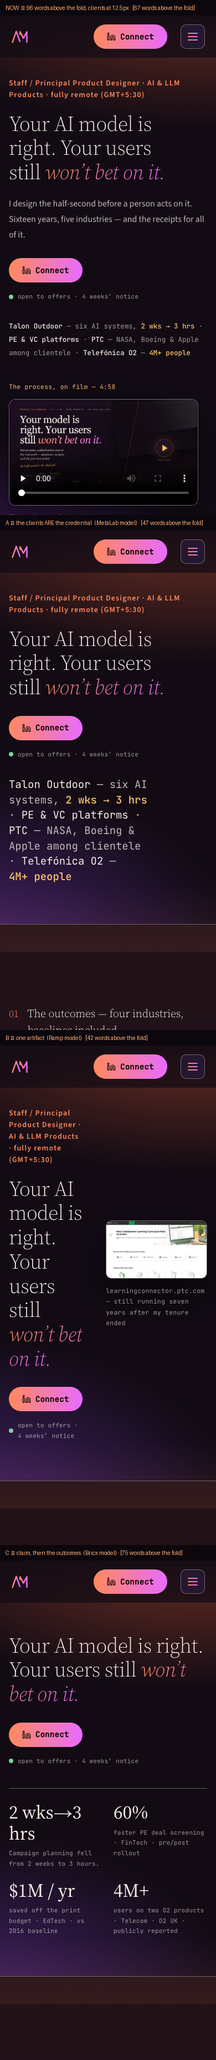
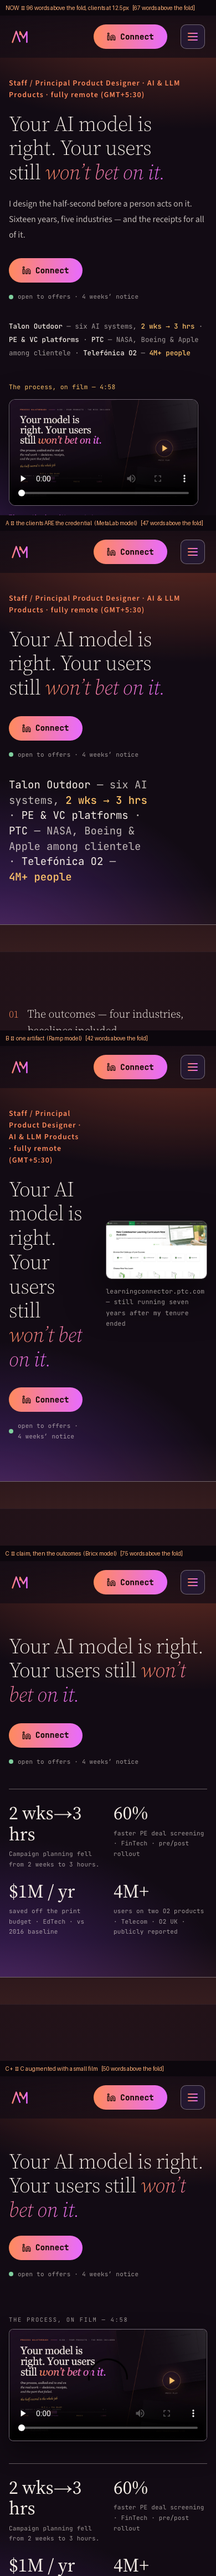
[hero] C+ — direction C augmented with a small film
Arpit: "augment C with a small video".

WHERE IT GOES, and why there. C left ~330px of empty screen to the right of the
call to action — the leftover-space defect his own layout rule names. The film
takes that void rather than being appended below, so the space gets a content
role instead of being padding.

FIRST ATTEMPT TRADED ONE VOID FOR ANOTHER, caught by rendering it. With
align-items:flex-end the film's baseline pulled the CTA ~200px DOWN to meet it,
opening a gap between the H1 and the button. Top-aligned now, so the claim, the
button and the film all hang from one line. Verified geometry rather than
eyeballed:
    H1     209 -> 399
    CTA    423 -> 467   (24px under the H1)
    film   419 -> 620   (312x201, top-aligned with the CTA, -4px)
    strip  660 -> 768
    fold   900          — the whole composition fits, proof strip included

It is the REAL hero video, moved, not a placeholder: the element is cloned from
.hero-widget so it keeps its poster, its controls and its preload=none.

COST: 70 -> 76 words above the fold, all six from the film's own kicker
("THE PROCESS, ON FILM — 4:58"). Still well under the current hero's 96 and
inside the 3-35 band the agency sites occupy.

MOBILE at 390: claim, CTA, status, film full width, then the numbers two
across — two of the four land above the fold, which is the honest trade for a
2-column strip on a phone.

ONE THING WORTH HIS DECISION, not mine: the film's poster frame shows the SAME
[…]

diff --git a/prototypes/hero-directions.py b/prototypes/hero-directions.py
@@ -26,6 +26,36 @@ CSS = """
 .dirB .art-cap{margin-top:12px;font-family:var(--mono);font-size:11.5px;
   letter-spacing:.02em;color:var(--dim)}
 
+/* C+ — C, augmented with a small film in the space beside the call to action */
+.dirCv .k.role-line{display:none}
+.dirCv .sub{display:none}
+.dirCv .cred{display:none}
+.dirCv .hero-widget{display:none}
+.dirCv .hero-split{grid-template-columns:1fr !important}
+.dirCv h1{max-width:26ch}
+/* top-aligned, not bottom: bottom-aligning pushed the CTA ~200px down to meet the
+   film's baseline and opened a void between the H1 and the button — one void traded
+   for another. The claim, the button and the film now all hang from the same line. */
+.dirCv .act-row{display:flex;align-items:flex-start;justify-content:space-between;
+  gap:40px;flex-wrap:wrap;margin-top:24px}
+.dirCv .act-row .ctas{margin-top:0}
+.dirCv .film{flex:0 0 312px;max-width:312px;margin-top:-4px}
+.dirCv .film .vid-frame{border-radius:8px;overflow:hidden;border:1px solid var(--line);
+  box-shadow:0 18px 44px rgba(0,0,0,.45)}
+.dirCv .film video{width:100%;height:auto;display:block}
+.dirCv .film-k{font-family:var(--mono);font-size:10.5px;letter-spacing:.16em;
+  color:var(--dim);margin-bottom:8px}
+.dirCv .numstrip{display:grid;grid-template-columns:repeat(4,1fr);gap:24px;margin-top:40px;
+  padding-top:24px;border-top:1px solid var(--line)}
+.dirCv .numstrip div b{display:block;font-family:var(--serif);font-size:34px;
+  font-weight:400;color:var(--ink);line-height:1.1}
+.dirCv .numstrip div span{display:block;font-family:var(--mono);font-size:11px;
+  letter-spacing:.02em;color:var(--dim);line-height:1.7;margin-top:8px}
+@media(max-width:900px){
+  .dirCv .film{flex:1 1 100%;max-width:none;margin-top:24px}
+  .dirCv .numstrip{grid-template-columns:repeat(2,1fr);gap:20px}
+}
+
 /* C — claim, then the outcomes, nothing else */
 .dirC .k.role-line{display:none}
 .dirC .sub{display:none}
@@ -75,10 +105,35 @@ C = """
     '<div class="numstrip">'+items+'</div>');
 """
 
+
+CV = """
+  document.body.classList.add('dirCv');
+  const cells=[...document.querySelectorAll('.rcell')];
+  const items=cells.map(c=>{
+    const bb=c.querySelector('b').cloneNode(true);
+    bb.querySelectorAll('.visually-hidden').forEach(x=>x.remove());
+    const n=bb.innerText.replace(/\\s+/g,' ').trim();
+    const m=c.querySelector('span').innerText.replace(/\\s+/g,' ').trim();
+    return '<div><b>'+n+'</b><span>'+m+'</span></div>';
+  }).join('');
+  // wrap the existing CTA row and drop the REAL hero video beside it, small
+  const copy=document.querySelector('.hero-copy');
+  const ctas=copy.querySelector('.ctas');
+  const row=document.createElement('div'); row.className='act-row';
+  ctas.parentNode.insertBefore(row, ctas); row.appendChild(ctas);
+  const src=document.querySelector('.hero-widget video');
+  const film=document.createElement('div'); film.className='film';
+  film.innerHTML='<p class="film-k">THE PROCESS, ON FILM &mdash; 4:58</p>'
+    + '<div class="vid-frame">' + src.outerHTML + '</div>';
+  row.appendChild(film);
+  copy.insertAdjacentHTML('beforeend','<div class="numstrip">'+items+'</div>');
+"""
+
 DIRS = [('NOW  —  96 words above the fold, clients at 12.5px', None),
         ('A  —  the clients ARE the credential  (MetaLab model)', A),
         ('B  —  one artifact  (Ramp model)', B),
-        ('C  —  claim, then the outcomes  (Bricx model)', C)]
+        ('C  —  claim, then the outcomes  (Bricx model)', C),
+        ('C+  —  C augmented with a small film', CV)]
 
 for width in (1440, 390):
     shots=[]
